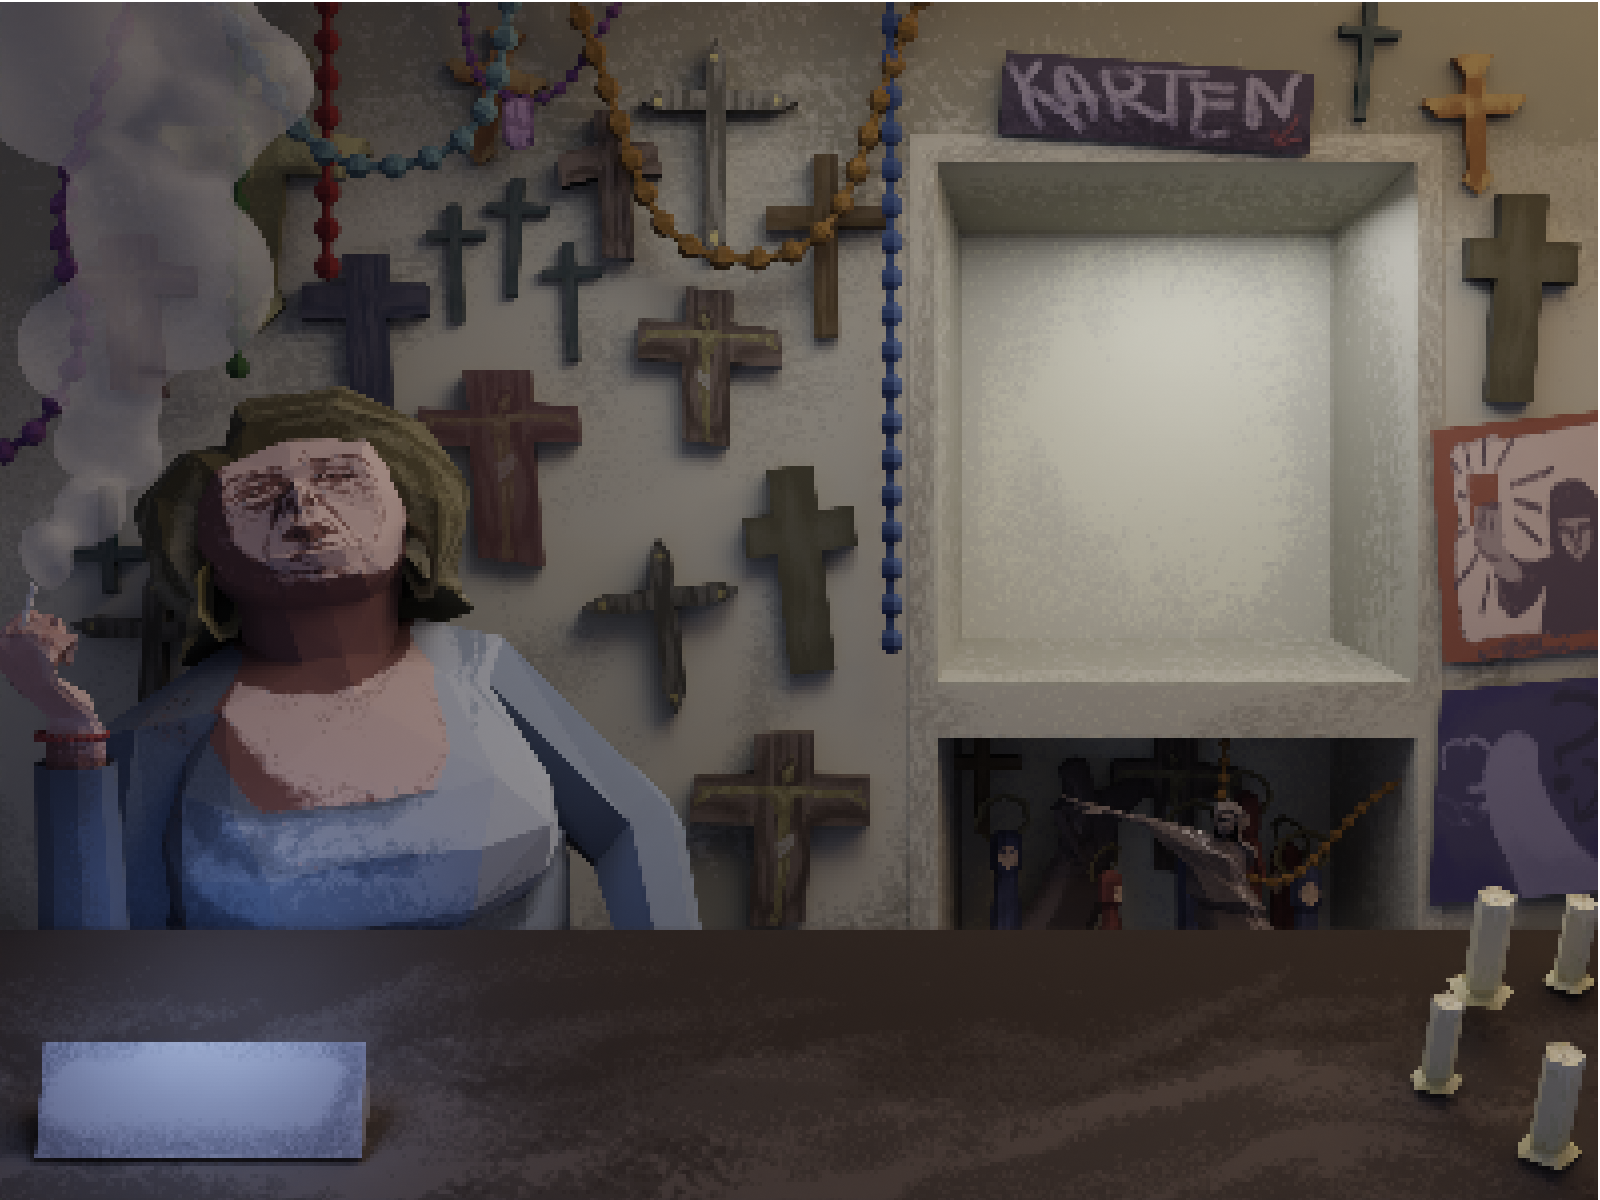
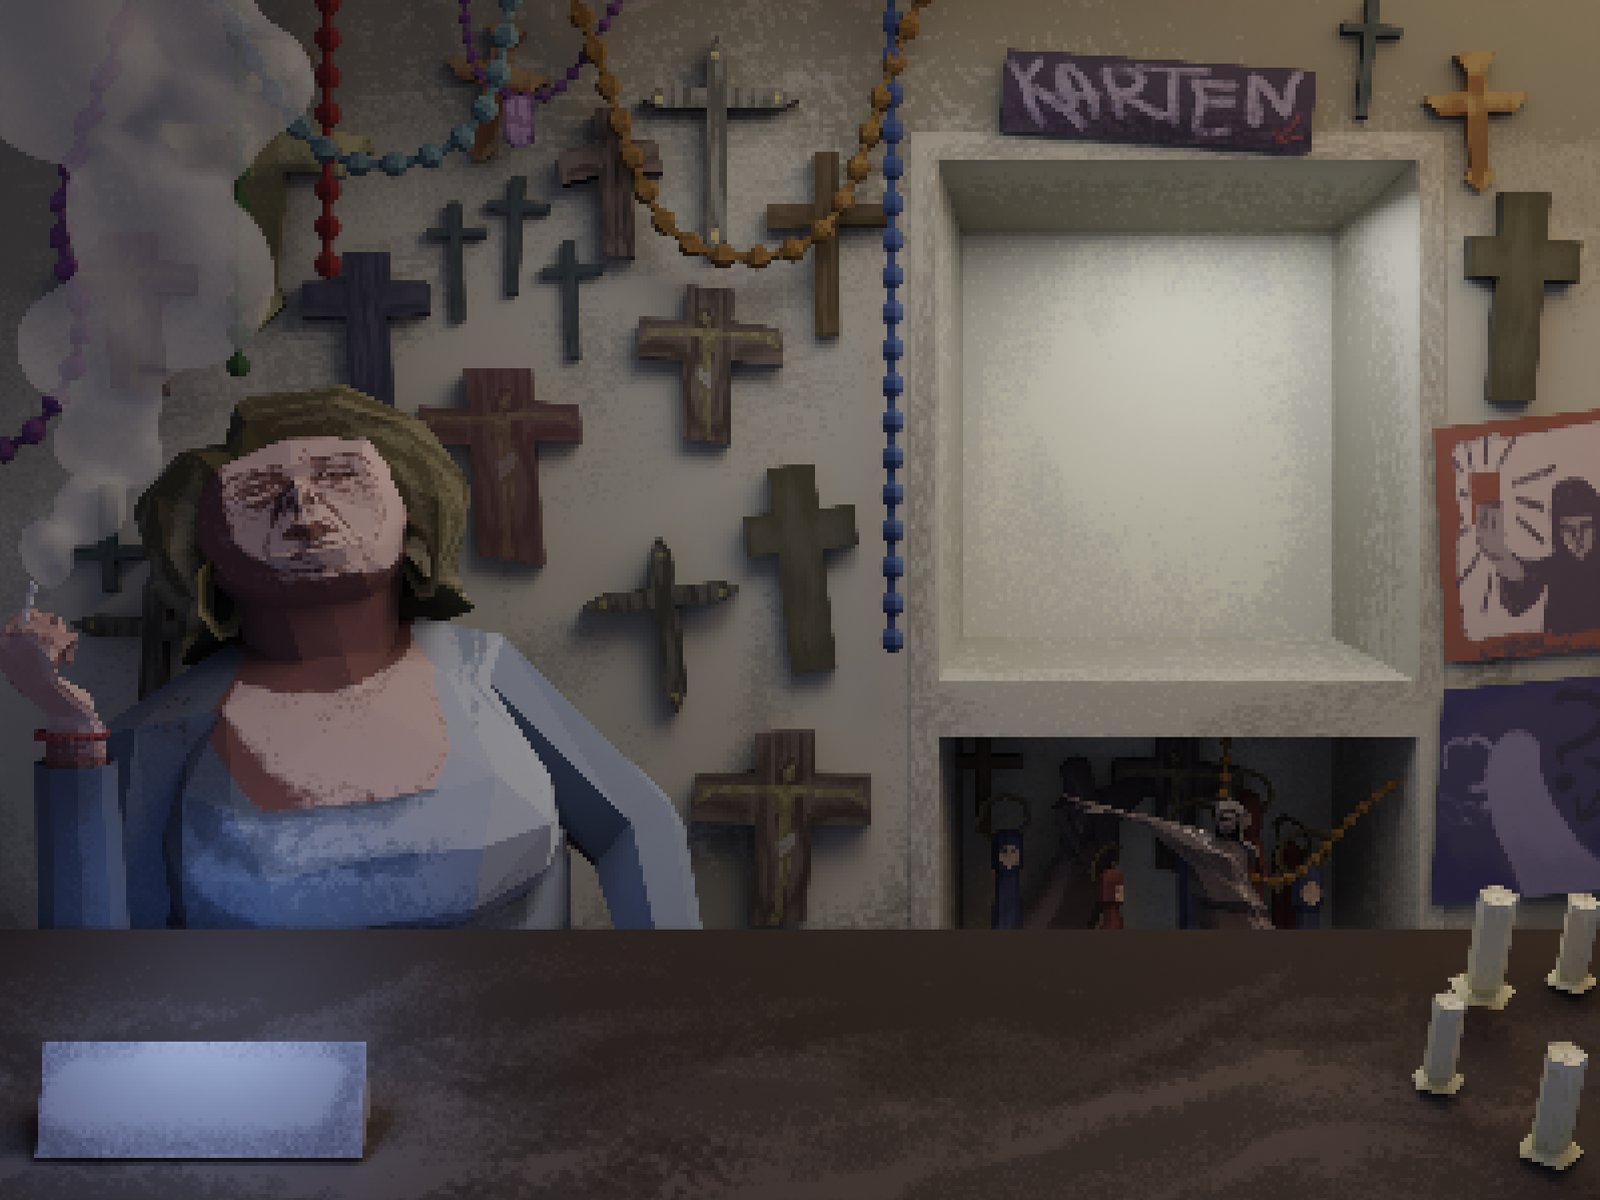
asdfasdf

diff --git a/Hollenhaus/Hollenhaus proyect VS/src/game/gamestates/ShopState.cpp b/Hollenhaus/Hollenhaus proyect VS/src/game/gamestates/ShopState.cpp
@@ -90,7 +90,7 @@ void ShopState::onEnter()
 	ecs::entity_t fondo = Instantiate();
 	fondo->addComponent<Transform>();
 	fondo->addComponent<SpriteRenderer>("tienda");
-	fondo->getComponent<Transform>()->setGlobalScale(0.475f, 0.475f);
+	fondo->getComponent<Transform>()->setGlobalScale(0.5f, 0.5f);
 	fondo->setLayer(0);
 
 	//-----MONEDAS:

diff --git a/Hollenhaus/Hollenhaus proyect VS/src/game/GameStateMachine.cpp b/Hollenhaus/Hollenhaus proyect VS/src/game/GameStateMachine.cpp
@@ -107,7 +107,7 @@ GameStateMachine::GameStateMachine()
 	//currentState = new MainMenuState();
 	// tutorialDeckbuildingState
 
-	currentState = mainMenuState;
+	currentState = shopState;
 
 	// settea la data en el current state para acceder a ella desde cualquier estado
 	currentState->setData(new Data());
